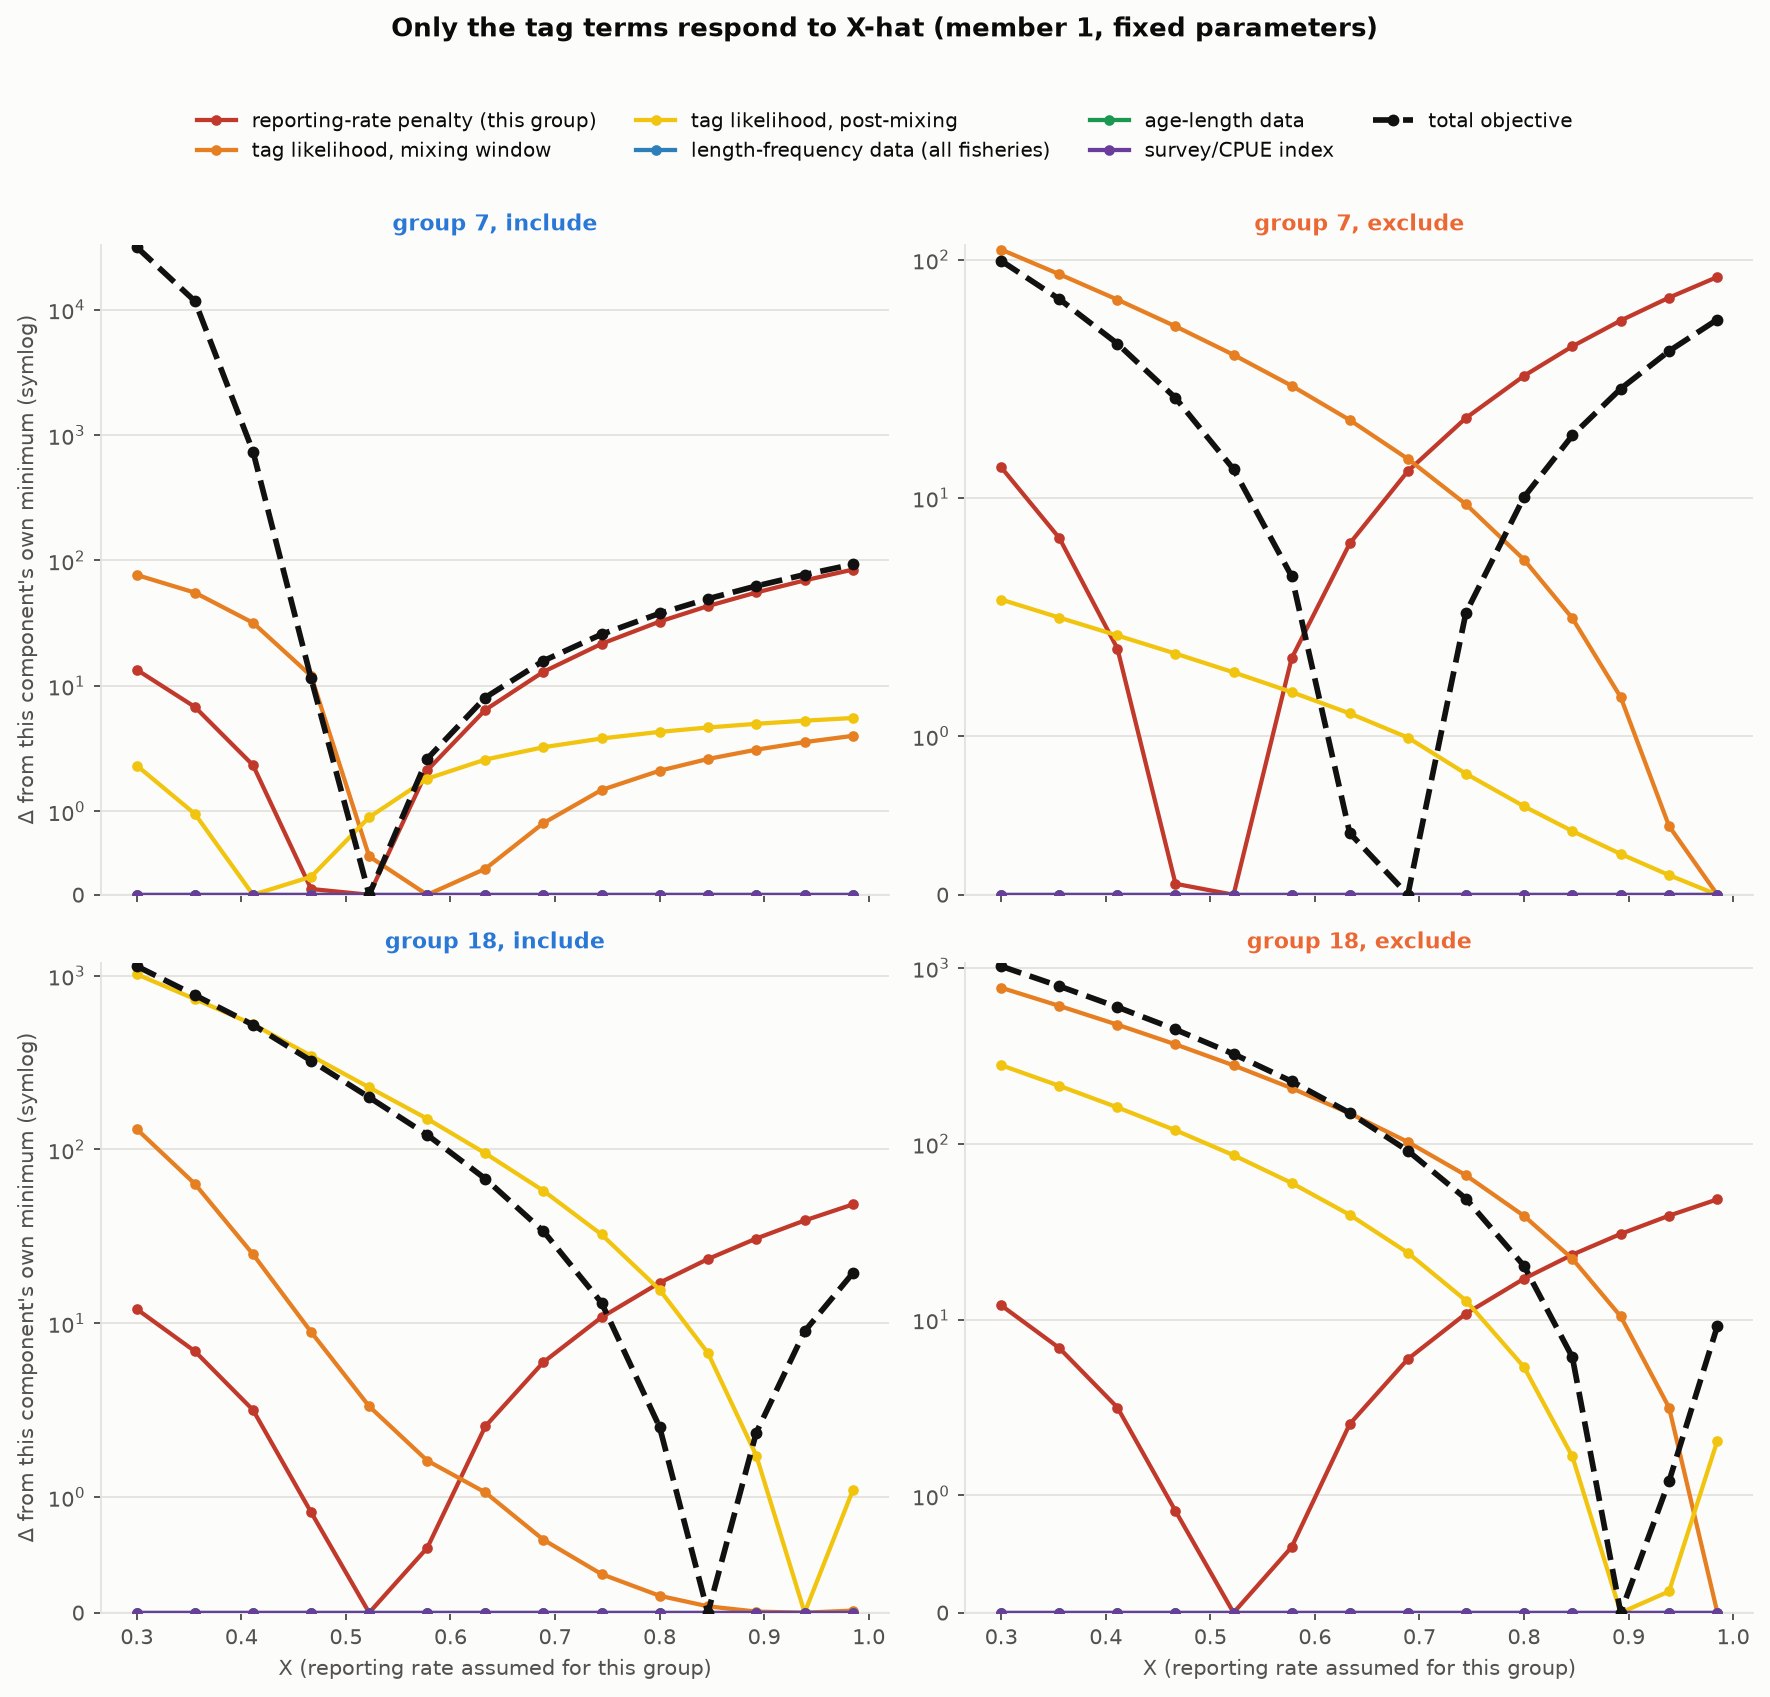
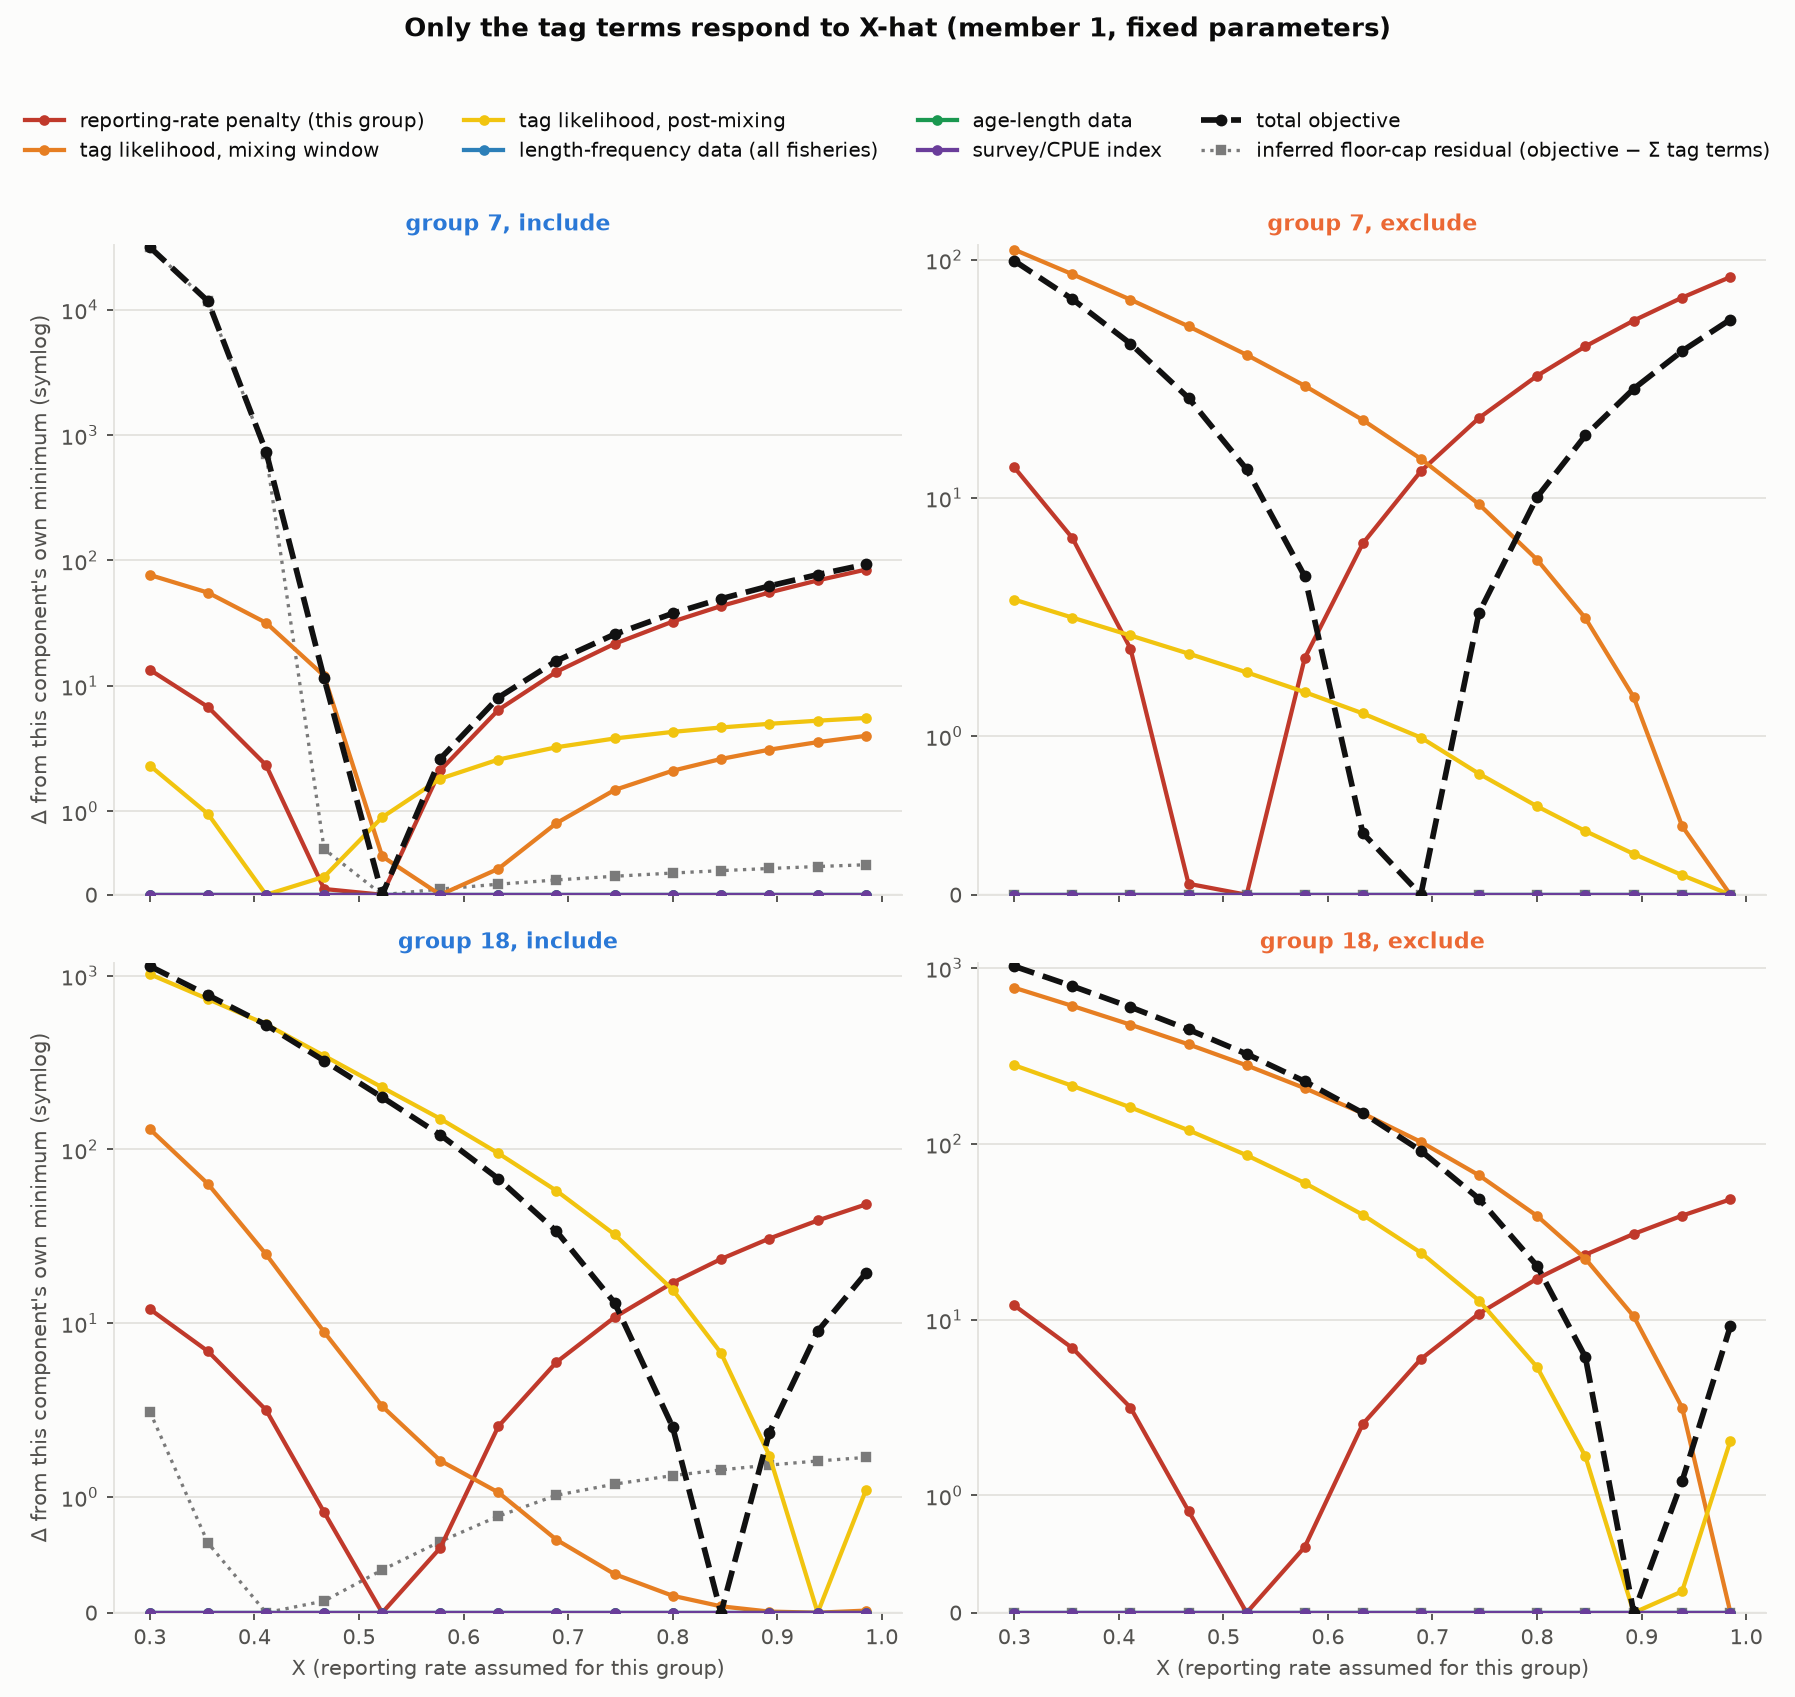
Add the inferred floor-cap residual as an explicit line
Grey dotted, objective minus (rr_penalty + tag_mix + tag_post), same
delta-from-own-minimum treatment as everything else. "Inferred" because
it is not a labelled block in test_plot_output -- arithmetic, the same
residual-by-subtraction Task 10 used to isolate the survival-floor
penalty from a fixed-parameter profile originally.

Confirms and quantifies what the total-objective line implied: under
exclude the residual sits at the axis floor throughout (nothing left
unexplained). Under include it traces the cap curve directly, and at the
low end of the sweep (X=0.30) it accounts for 99.7% of group 7's total
objective movement versus 0.3% of group 18's -- so the two groups don't
just differ in the cap's magnitude, they differ in whether the cap is
the story at all. The residual line is visually coincident with the
black total line wherever the cap dominates (group 7, X<0.42ish), which
is correct, not a rendering artifact -- it separates from black exactly
where genuine tag-likelihood movement starts contributing instead.

diff --git a/analysis/channel2/18-figures.py b/analysis/channel2/18-figures.py
@@ -222,6 +222,7 @@ COMPONENT_STYLE = {
     "survey_index_total": ("#6a3d9a", "survey/CPUE index"),
 }
 TOTAL_STYLE = ("#111111", "total objective")
+RESID_STYLE = ("#7a7a7a", "inferred floor-cap residual (objective − Σ tag terms)")
 
 
 def fig_component_profile():
@@ -253,6 +254,17 @@ def fig_component_profile():
     safely past where the residual plateaus, which is why the fitted-rate
     cost stays small in practice; this is what the cost would look like if
     a fit were pulled further down that cliff than these ones were.
+
+    The grey dotted line makes that residual explicit rather than leaving
+    it to be read off as the gap between the black and coloured lines: it
+    is objective minus (rr_penalty + tag_mix + tag_post), same
+    delta-from-own-minimum treatment. "Inferred" because it is not a
+    labelled block in test_plot_output -- it is arithmetic, the same
+    residual-by-subtraction construction Task 10 used to isolate the
+    survival-floor penalty from a fixed-parameter profile in the first
+    place. Under exclude it should sit at the axis floor throughout
+    (nothing left over to explain); under include it traces the cap curve
+    directly.
     """
     path = os.path.join(OUT, "component-profile-sweep.csv")
     if not os.path.exists(path):
@@ -277,6 +289,12 @@ def fig_component_profile():
             y_tot = sub.objective.values - sub.objective.values.min()
             ax.plot(sub.X, y_tot, marker="o", color=tot_color, lw=2.4, ms=4,
                     ls="--", label=tot_label, zorder=4)
+            resid_color, resid_label = RESID_STYLE
+            resid = (sub.objective.values
+                      - (sub.rr_penalty.values + sub.tag_mix.values + sub.tag_post.values))
+            y_resid = resid - resid.min()
+            ax.plot(sub.X, y_resid, marker="s", color=resid_color, lw=1.4, ms=3,
+                    ls=":", label=resid_label, zorder=2)
             ax.axhline(0, color=GRID, lw=1, zorder=1)
             # symlog, not log10(y + epsilon): every delta here is >= 0 and
             # many are exactly 0 (the flat components), so a plain log needs
